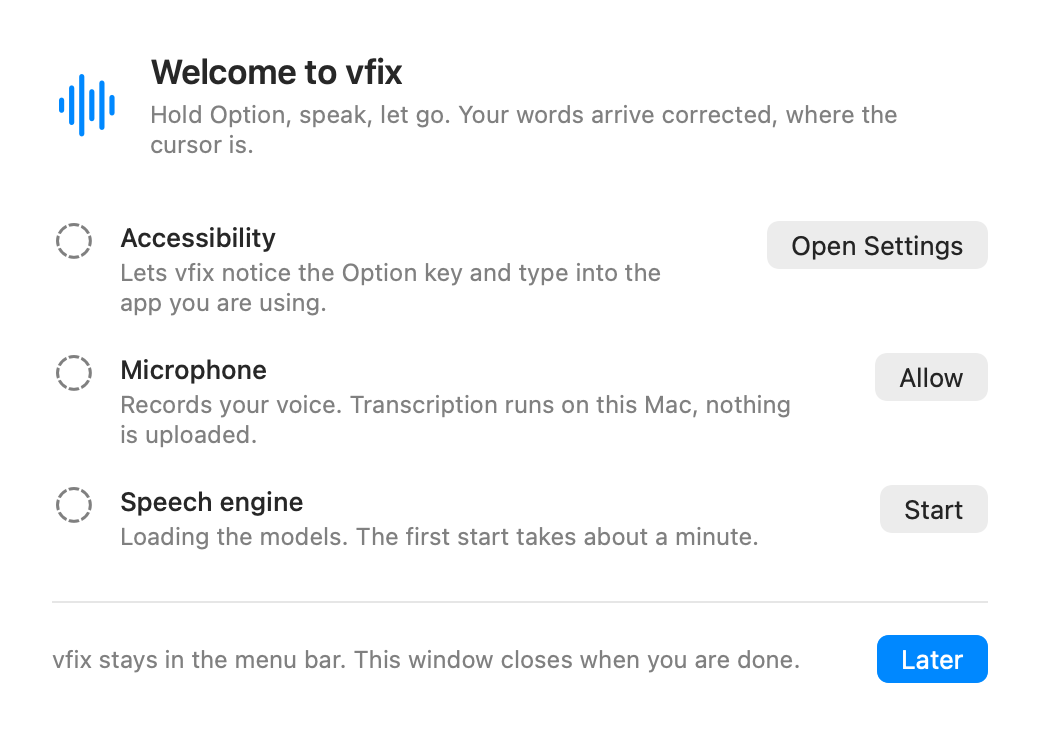
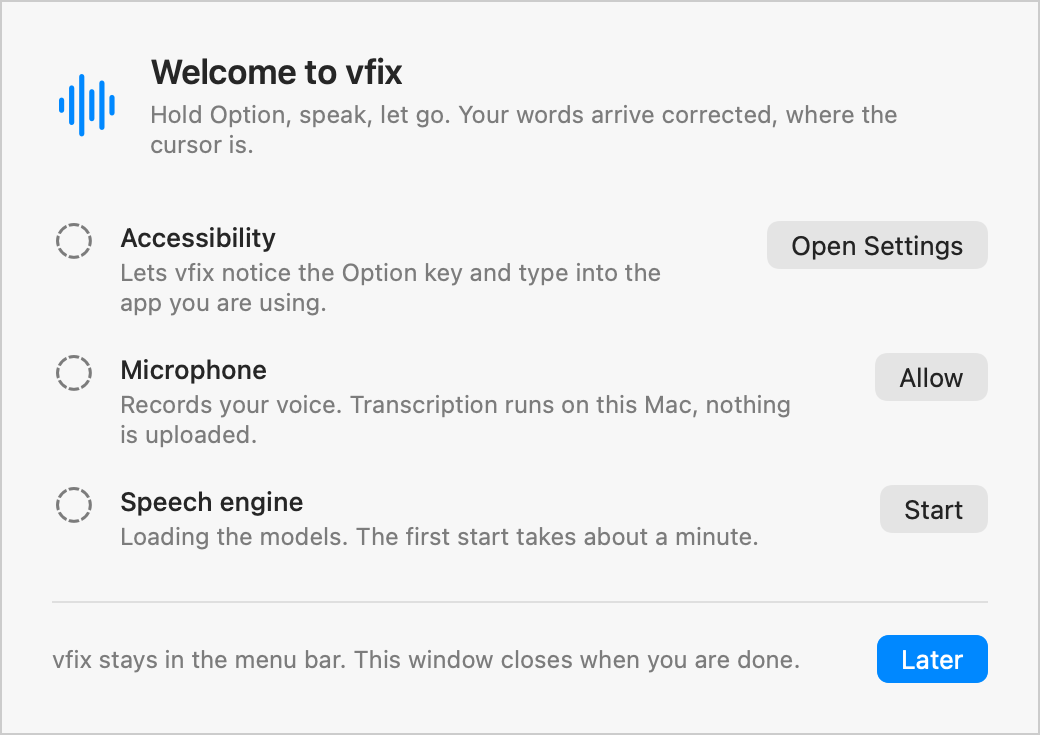
Stop treating an empty dictation as an error
Holding Option without speaking played Basso, the macOS error alert, because the
silence gate returning nothing went down the same path as a real failure. Nothing
to insert is not a mistake and should not sound like one.

Adds a cancelled HUD state that leaves quietly with no warning glyph, and moves
the cues into the bundle so they are ours to change. The system set has nothing
suitable for heard nothing.

Changed region(s): [[0.0, 0.0, 1.0, 1.0], [0.0, 0.0, 0.0308, 0.0299]]

diff --git a/macapp/Sources/VfixApp/main.swift b/macapp/Sources/VfixApp/main.swift
@@ -78,11 +78,11 @@ final class AppDelegate: NSObject, NSApplicationDelegate {
         } catch {
             Paths.log("start failed: \(error.localizedDescription)")
             notify("vfix", error.localizedDescription)
-            hud.finish(success: false)
+            hud.finish(.failed)
             return
         }
         hud.show(.listening)
-        NSSound(named: "Tink")?.play()
+        Cue.start.play()
 
         levelTimer?.invalidate()
         levelTimer = Timer.scheduledTimer(withTimeInterval: 1.0 / 30, repeats: true) { [weak self] _ in
@@ -99,12 +99,13 @@ final class AppDelegate: NSObject, NSApplicationDelegate {
 
         let mine = session
         hud.show(.working)
-        NSSound(named: "Pop")?.play()
+        Cue.stop.play()
 
         let minSeconds = 0.4
         guard take.seconds >= minSeconds else {
             try? FileManager.default.removeItem(at: take.url)
-            hud.finish(success: false)
+            Cue.nothing.play()
+            hud.finish(.cancelled)
             return
         }
 
@@ -131,17 +132,19 @@ final class AppDelegate: NSObject, NSApplicationDelegate {
                         NSPasteboard.general.clearContents()
                         NSPasteboard.general.setString(result.text, forType: .string)
                     }
-                    NSSound(named: "Glass")?.play()
-                    self.hud.finish(success: true)
+                    Cue.done.play()
+                    self.hud.finish(.done)
                 case .success(let result):
-                    Paths.log("no usable text, state=\(result.state) raw=\(result.raw)")
-                    NSSound(named: "Basso")?.play()
-                    self.hud.finish(success: false)
+                    // The engine ran fine and simply had nothing to transcribe. Treat it
+                    // as a cancel, not a failure, so an idle Option hold stays quiet.
+                    Paths.log("nothing heard, state=\(result.state) raw=\(result.raw)")
+                    Cue.nothing.play()
+                    self.hud.finish(.cancelled)
                 case .failure(let error):
                     Paths.log("daemon error: \(error.localizedDescription)")
                     self.notify("vfix", error.localizedDescription)
-                    NSSound(named: "Basso")?.play()
-                    self.hud.finish(success: false)
+                    Cue.nothing.play()
+                    self.hud.finish(.failed)
                 }
             }
         }

diff --git a/macapp/Sources/VfixApp/Previews.swift b/macapp/Sources/VfixApp/Previews.swift
@@ -32,18 +32,35 @@ enum Previews {
         fresh.accessibility = false
         fresh.microphone = false
         fresh.engine = false
-        render(OnboardingView(state: fresh, onDone: {}),
+        render(documentShot(OnboardingView(state: fresh, onDone: {})),
                to: directory.appendingPathComponent("onboarding-fresh.png"))
 
         let ready = PermissionState()
         ready.accessibility = true
         ready.microphone = true
         ready.engine = true
-        render(OnboardingView(state: ready, onDone: {}),
+        render(documentShot(OnboardingView(state: ready, onDone: {})),
                to: directory.appendingPathComponent("onboarding-ready.png"))
 
-        render(SettingsView().frame(width: 460, height: 470),
+        render(documentShot(SettingsView().frame(width: 460, height: 470)),
                to: directory.appendingPathComponent("settings.png"))
+    }
+
+    /// Wrap a view so the exported PNG is opaque.
+    ///
+    /// ImageRenderer leaves the background transparent, which looks fine locally because
+    /// most viewers composite onto white. Embedded in a README it is not fine: GitHub's
+    /// dark theme shows through the alpha and the dark text becomes unreadable. Painting
+    /// an explicit light surface, with a hairline edge so it still has definition against
+    /// a white page, makes one image legible in both themes.
+    @MainActor
+    private static func documentShot(_ view: some View) -> some View {
+        view
+            .background(Color(white: 0.97))
+            .overlay(
+                Rectangle().strokeBorder(Color(white: 0.80), lineWidth: 1)
+            )
+            .environment(\.colorScheme, .light)
     }
 
     @MainActor

diff --git a/macapp/Sources/VfixApp/Sounds.swift b/macapp/Sources/VfixApp/Sounds.swift
@@ -1,0 +1,48 @@
+import AppKit
+import Foundation
+
+/// Audio cues.
+///
+/// The cues are bundled rather than taken from the system set, because the system set has
+/// nothing suitable for "heard nothing". `Basso` is the macOS error alert, and using it
+/// when a dictation simply had no speech in it scolds the user for a non-event. These are
+/// quiet, short, and deliberately unalarming.
+enum Cue: String {
+    case start = "start"
+    case stop = "stop"
+    case done = "done"
+    /// Nothing usable was captured. Not a failure, so it must not sound like one.
+    case nothing = "nothing"
+
+    private static var cache: [String: NSSound] = [:]
+
+    func play() {
+        if let cached = Self.cache[rawValue] {
+            cached.stop()
+            cached.play()
+            return
+        }
+        // Bundled first, then the system fallback, so the app still makes sense if a
+        // resource is missing from the bundle.
+        if let url = Bundle.main.url(forResource: rawValue, withExtension: "aiff",
+                                    subdirectory: "Sounds"),
+           let sound = NSSound(contentsOf: url, byReference: false) {
+            Self.cache[rawValue] = sound
+            sound.play()
+            return
+        }
+        if let fallback = NSSound(named: systemFallback) {
+            Self.cache[rawValue] = fallback
+            fallback.play()
+        }
+    }
+
+    private var systemFallback: NSSound.Name {
+        switch self {
+        case .start: return "Tink"
+        case .stop: return "Pop"
+        case .done: return "Glass"
+        case .nothing: return "Morse"
+        }
+    }
+}

diff --git a/macapp/Sources/VfixApp/HUD.swift b/macapp/Sources/VfixApp/HUD.swift
@@ -6,6 +6,9 @@ enum HUDState: Equatable {
     case listening
     case working
     case done
+    /// Nothing usable was heard. Distinct from `failed` because it is not an error, so it
+    /// gets no warning glyph and leaves without complaint.
+    case cancelled
     case failed
 }
 
@@ -45,7 +48,7 @@ struct HUDView: View {
             return barMin + (barMax - barMin) * CGFloat(scaled)
         case .working:
             return barMin + 3
-        case .done, .failed, .hidden:
+        case .done, .failed, .cancelled, .hidden:
             return 0
         }
     }
@@ -152,13 +155,16 @@ final class HUDPanel: NSPanel {
         model.state = state
     }
 
-    func finish(success: Bool) {
+    func finish(_ outcome: HUDState) {
         guard model.state != .hidden else { return }
         dismissWork?.cancel()
-        model.state = success ? .done : .failed
+        model.state = outcome
+        // A cancel leaves quickly, since there is nothing to read. A failure lingers a
+        // little so the warning is actually seen.
+        let linger: TimeInterval = outcome == .done ? 0.45 : (outcome == .cancelled ? 0.3 : 0.8)
         let work = DispatchWorkItem { [weak self] in self?.dismiss() }
         dismissWork = work
-        DispatchQueue.main.asyncAfter(deadline: .now() + (success ? 0.45 : 0.8), execute: work)
+        DispatchQueue.main.asyncAfter(deadline: .now() + linger, execute: work)
     }
 
     func dismiss() {
